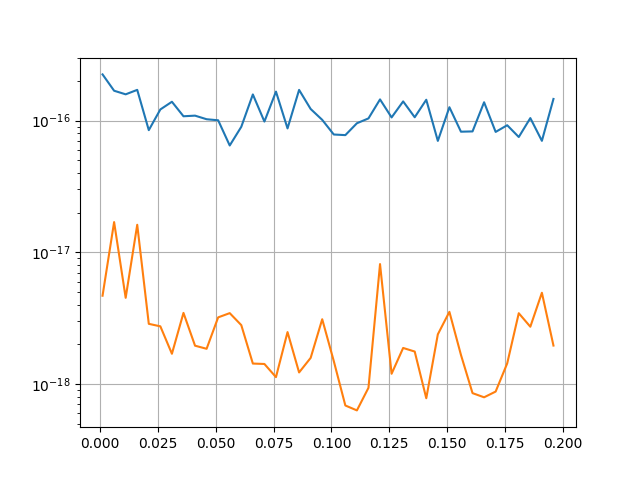
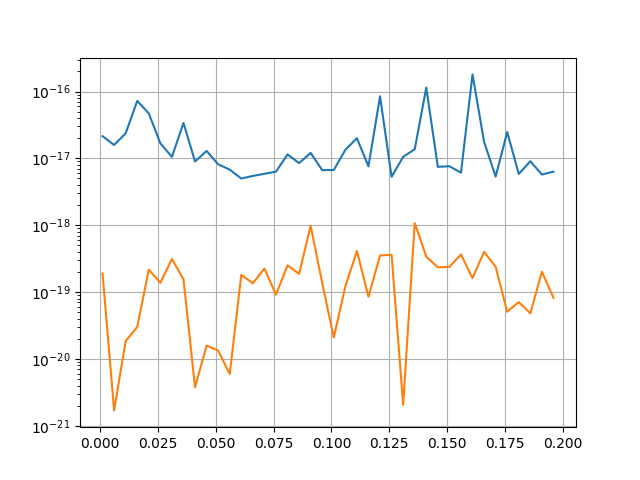
changed name of s, etaum; removing some comments and sume minor changes

diff --git a/code/an_osc.py b/code/an_osc.py
@@ -10,7 +10,7 @@ import time
 import multiprocessing
 import parameters as par
 
-etaum = 0
+etau_mjd = 0
 
 # 0: K, 1: std
 sd = [0]*len(par.labs)
@@ -19,9 +19,9 @@ def fu(dx,A,sh):
     return [f(x,A,sh) for x in dx]
 
 def f(x,A,sh):   
-    global etaum
+    global etau_mjd
     rx = int(x)
-    return A*np.sin(etaum*(x-rx)+sh)*ssf_osc(Om)
+    return A*np.sin(etau_mjd*(x-rx)+sh)*ssf_osc(Om)
 
 def sigf(dx):
     return [ sd[int(x)] for x in dx]
@@ -57,33 +57,30 @@ def calc_single(mjd, om):
     :Changes:
         2023-09-15 (Piotr Morzyński): First version
     """
-    global etaum
+    global etau_mjd
     global sd
 
-    etau = om  # rad/s
-    etaum = etau*86400
-    end_mjd = mjd+0.05
-    durm = end_mjd-mjd
+    etau_s = 3*2*np.pi/om  # [s]
+    etau_mjd = etau_s/86400.
+    end_mjd = mjd+etau_mjd
     datx=[]
     daty=[]
-
     cnt = 0
     clocks = 0
     # capture data for labs for given mjd, om
     for lab in par.labs:
-        if lab in d.keys():
-            s = d[lab].getrange(mjd,end_mjd)
+        if lab in labs_data.keys():
+            data_serie = labs_data[lab].getrange(mjd,end_mjd)
             
-            if s != None and len(s.dtab)==1:
-                if s.dtab[0].mjd_tab[-1]-s.dtab[0].mjd_tab[0] >= 0.95*durm:
-                    #s.rm_dc()
-                    s.rm_drift_each()
-                    #s.plot()
-                    datx.append(s.mjd_tab() - (mjd) + par.lnum[lab])
-                    daty.append(s.val_tab())
+            if data_serie != None and len(data_serie.dtab)==1:
+                # TODO: add checking that there is resonable uptime
+                if data_serie.dtab[0].mjd_tab[-1]-data_serie.dtab[0].mjd_tab[0] >= 0.75*etau_mjd:
+                    data_serie.rm_drift()
+                    datx.append(data_serie.mjd_tab() - (mjd) + par.lnum[lab])
+                    daty.append(data_serie.val_tab())
                     cnt = cnt+1
                     clocks = clocks + (1 << par.lnum[lab])
-                    sd[par.lnum[lab]]=s.std()
+                    sd[par.lnum[lab]]=data_serie.std()
 
     if cnt>2:
             datx = np.concatenate(datx)
@@ -92,14 +89,6 @@ def calc_single(mjd, om):
             try:
                 popt, pcov = scp.curve_fit(fu, datx, daty,  
                             sigma=sig, absolute_sigma=True )
-                #print('POPT:  ', popt)
-                #print('PCOV:  ', pcov)
-                #plt.plot([x-int(x) for x in datx], daty, 
-                #        [x-int(x) for x in datx], fu(datx,*popt), 
-                        #[x-int(x) for x in datx], sig
-                #        )
-                #plt.plot(datx, daty, datx, fu(datx,*popt))
-                #plt.show()
             except:
                 return None
             return [popt[0], pcov[0,0]**0.5, pcov[1,1]**0.5, clocks]
@@ -107,20 +96,17 @@ def calc_single(mjd, om):
             return None
 
 #reading data from npy files
-d = dict()
+labs_data = dict()
 for lab in par.labs:
-    print('\n'+lab)
-    print(os.path.isfile( str( progspath / (r'DMAnaliza/data/d_prepared/d_' +lab+'_'+par.camp+'.npy') ) ))
     if os.path.isfile( str( progspath / (r'DMAnaliza/data/d_prepared/d_' +lab+'_'+par.camp+'.npy') ) ):
-        #print('\n'+lab)
-        d[lab] = tls.MTSerie(lab, color=par.inf[lab]['col'])
-        d[lab].add_mjdf_from_file(
+        labs_data[lab] = tls.MTSerie(lab, color=par.inf[lab]['col'])
+        labs_data[lab].add_mjdf_from_file(
             str( progspath / (r'DMAnaliza/data/d_prepared/d_' +lab+'_'+par.camp+'.npy') )   )
-        d[lab].split(min_gap=12)
+        labs_data[lab].split(min_gap=12)
         #d[lab].rm_dc_each()
         #d[lab].high_gauss_filter_each(stddev=350)
         #d[lab].rm_drift_each()
-        d[lab].alphnorm(atom=par.inf[lab]['atom'])  #convert AOM freq to da/a
+        labs_data[lab].alphnorm(atom=par.inf[lab]['atom'])  #convert AOM freq to da/a
         #sd[lnum[lab]]=d[lab].std()
 
 def calc_for_single_mjd(p):
